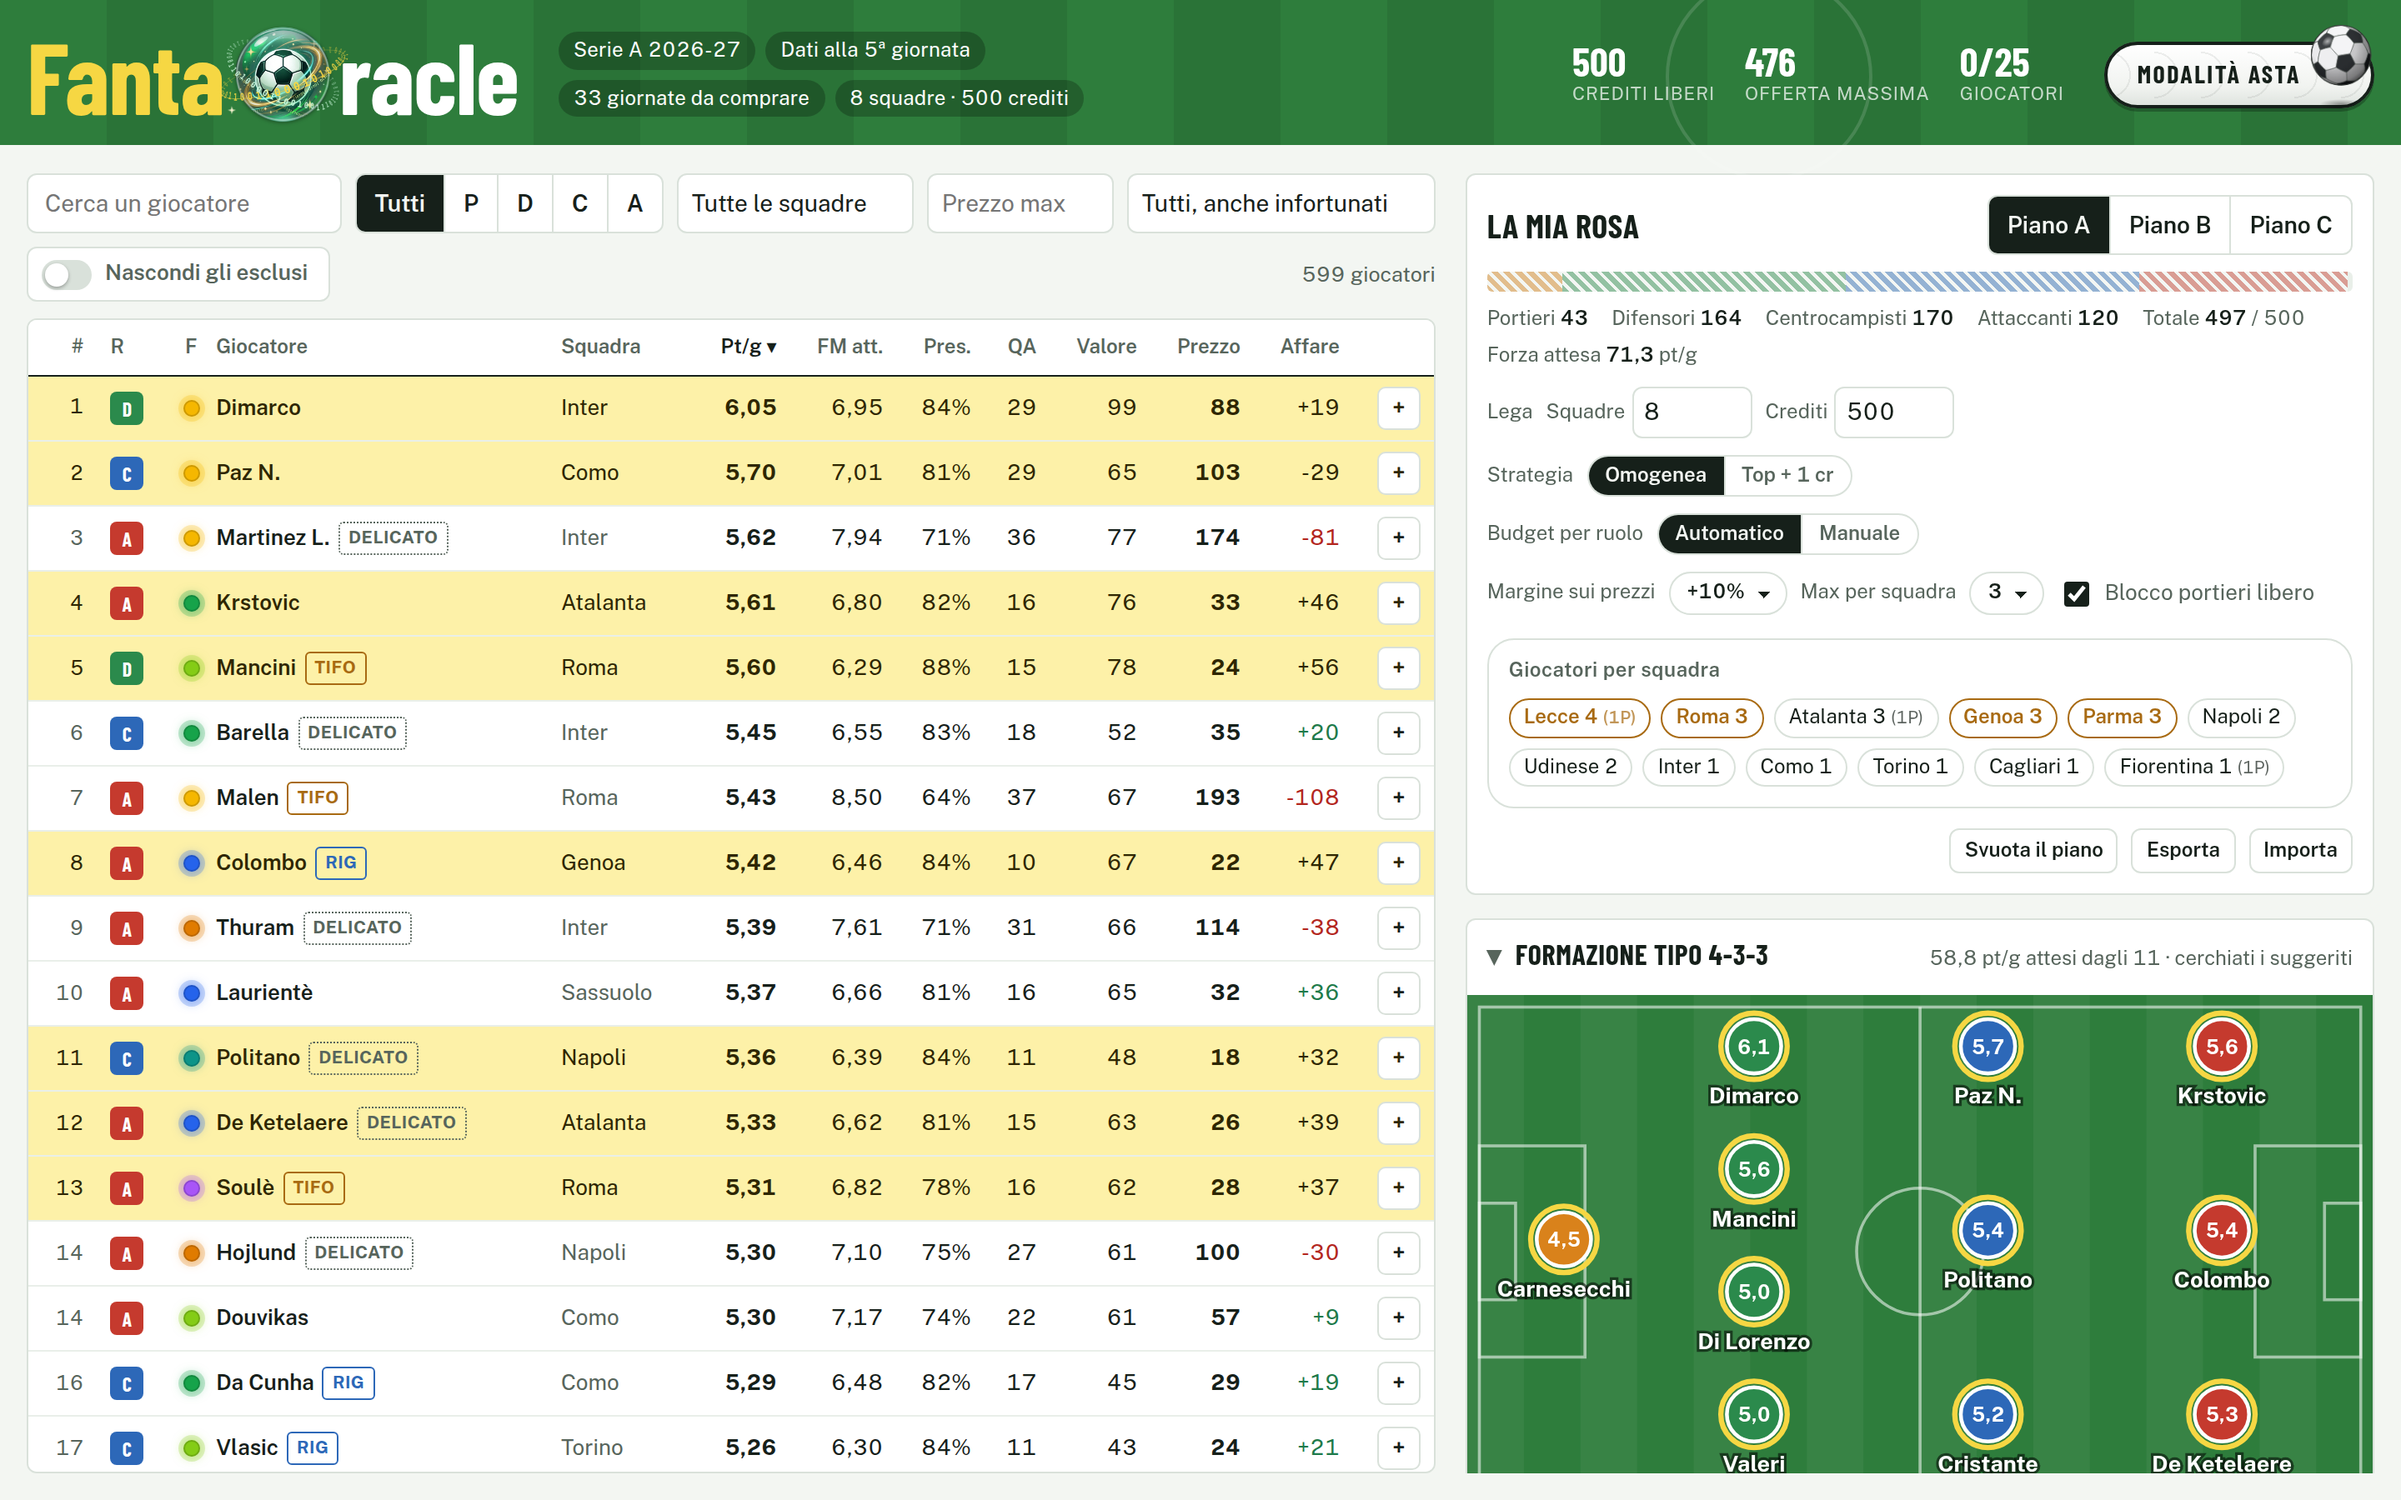
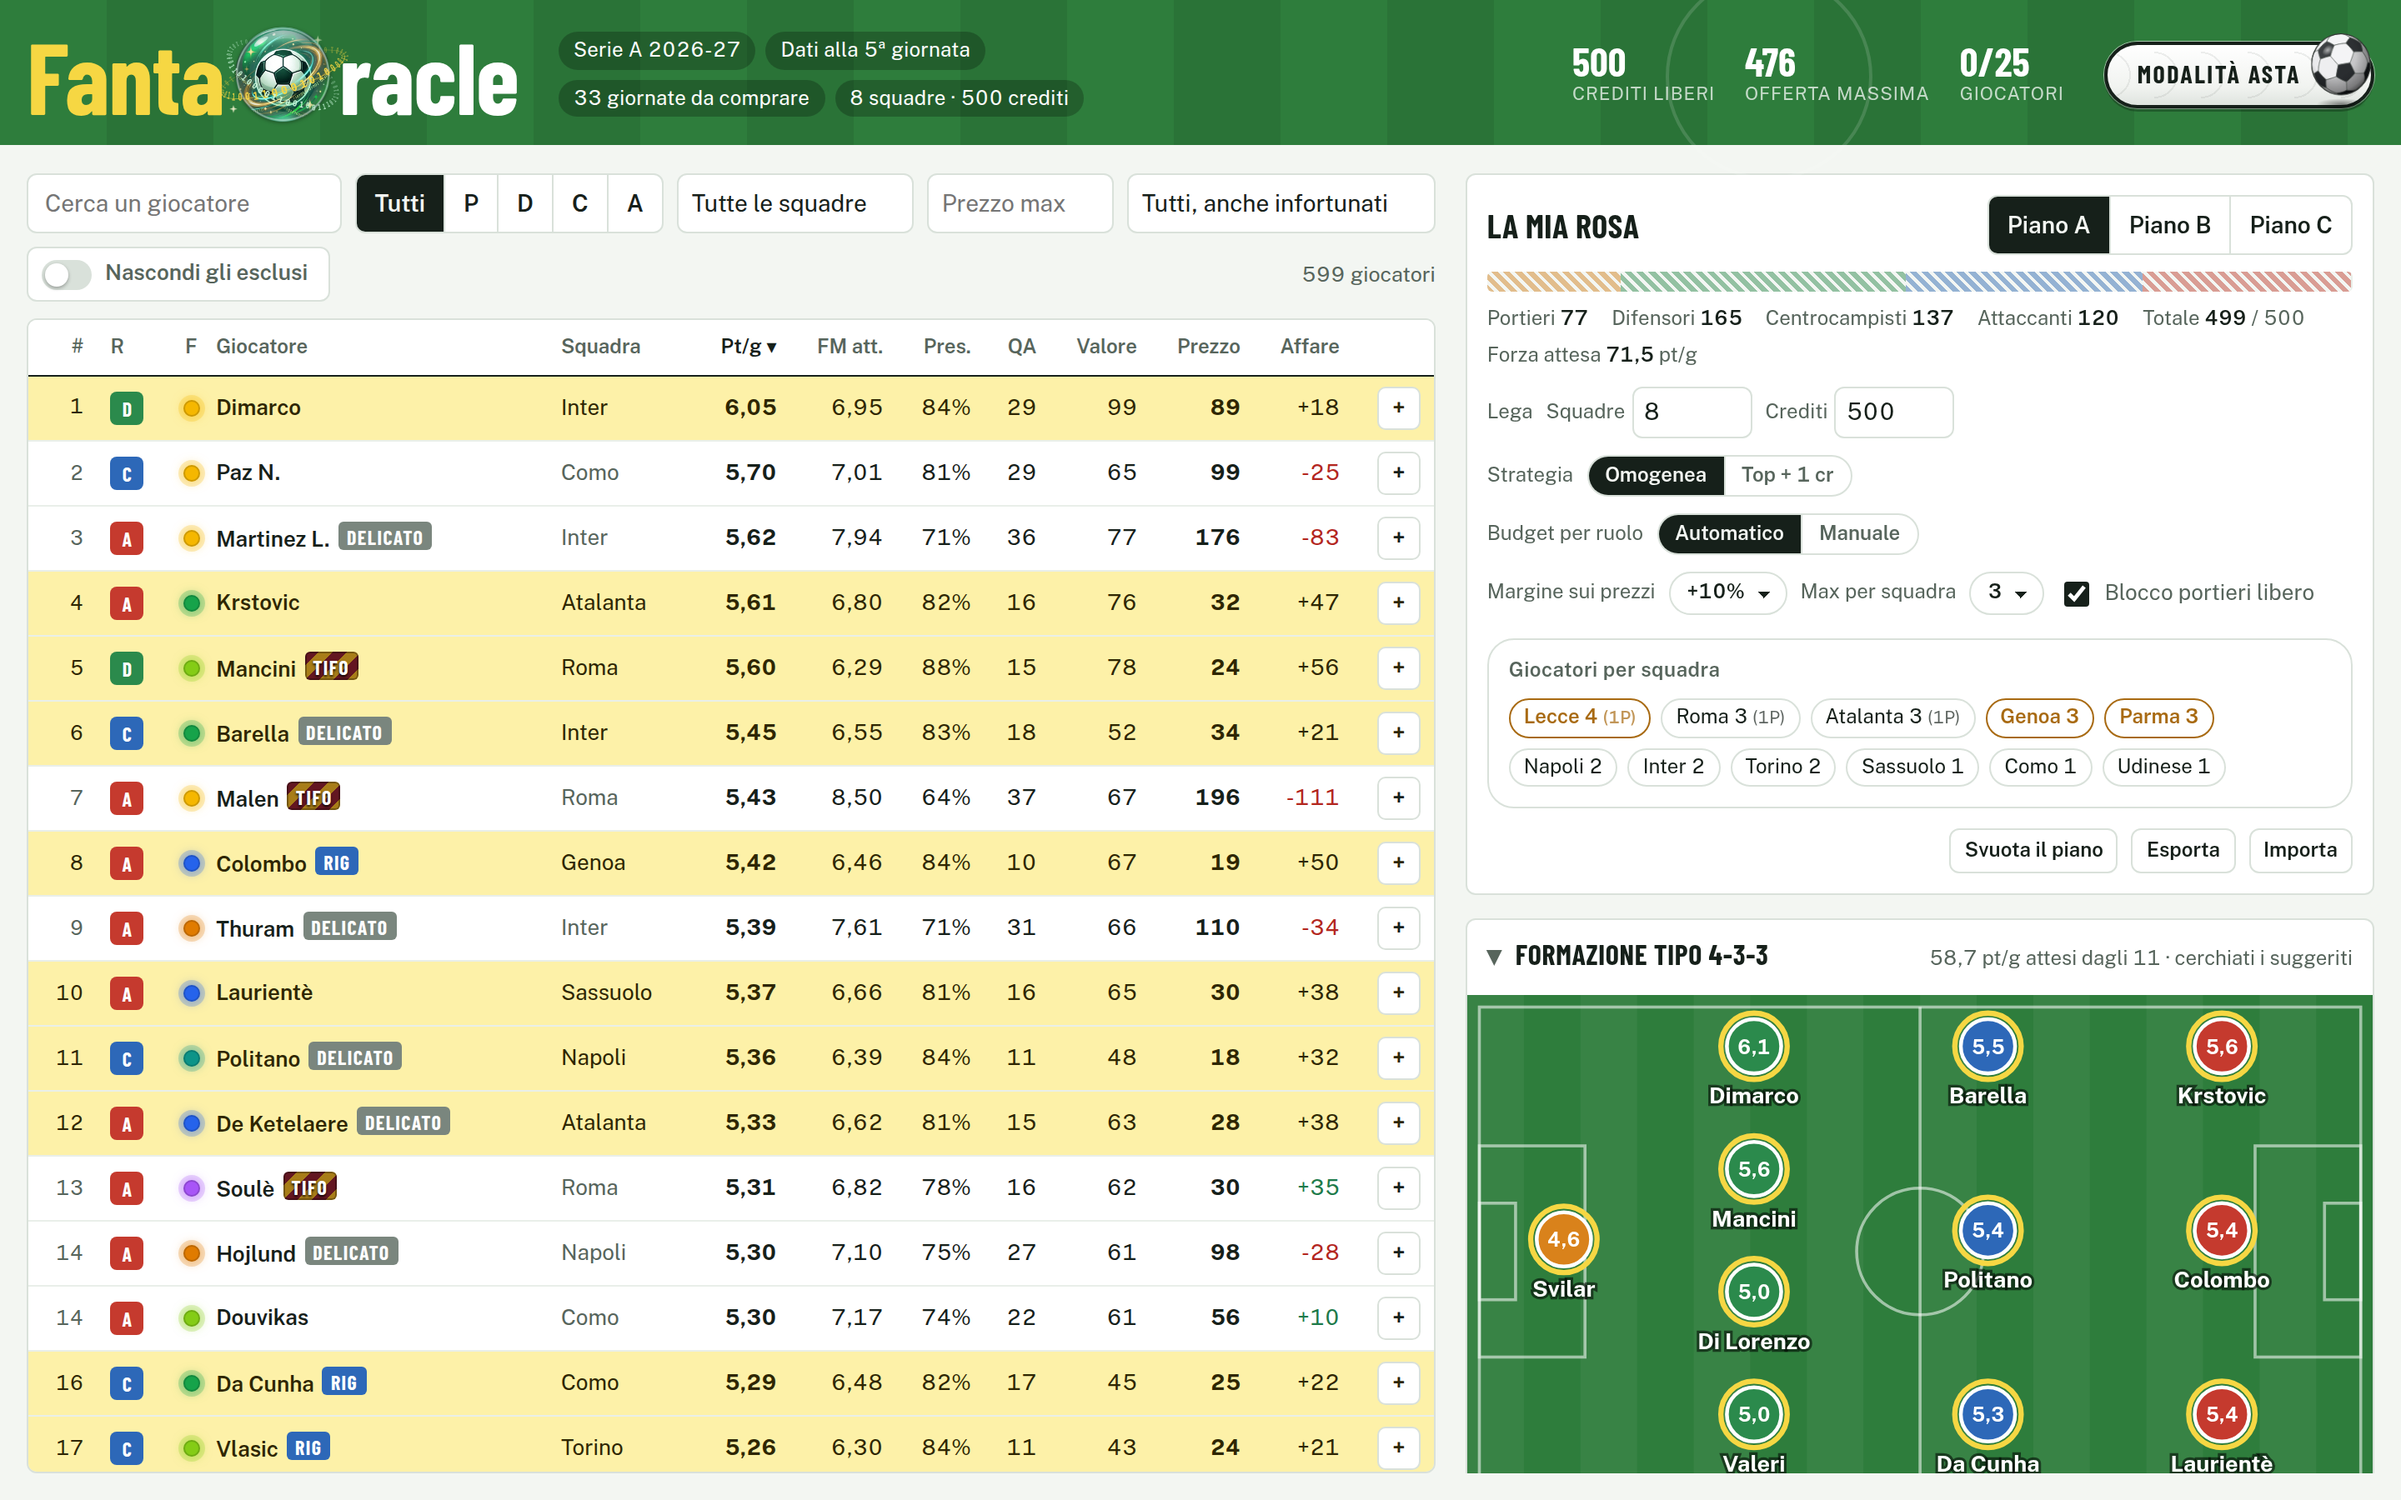
Etichette come bollini da tabellone, TIFO coi colori della squadra
Le etichette accanto al nome diventano bollini pieni nel font dei titoli: OUT e
SQ con la chiave scura e accanto il rientro (OUT | 8a, OUT | STAGIONE, SQ | 2 G),
dubbio e diffida in giallo, FRAGILE bordato di rosso, DELICATO in grigio, RIG in
blu. TIFO ha le strisce coi colori sociali della squadra, con un velo scuro che
tiene leggibile la scritta anche sulle strisce bianche; la tabella copre tutte
e venti le squadre, cosi' vale per qualsiasi squadra messa nel tifo.

README, specifiche e screenshot aggiornati.

Claude-Session: https://claude.ai/code/session_01FBeLdg3Zut88sEP1f7QNub

diff --git a/web/tool.css b/web/tool.css
@@ -230,13 +230,21 @@ td.big { font-weight: 700; }
 .pos { color: var(--go); } .neg { color: var(--bad); }
 .role { display: inline-grid; place-items: center; width: 20px; height: 20px; border-radius: 4px; color: #fff; font: 700 12px/1 var(--font-display); }
 .role.P { background: var(--r-p); } .role.D { background: var(--r-d); } .role.C { background: var(--r-c); } .role.A { background: var(--r-a); }
-.tag { display: inline-block; font-size: 10.5px; font-weight: 700; padding: 1px 5px; border-radius: 3px; margin-left: 5px; vertical-align: 1px; border: 1px solid currentColor; letter-spacing: 0.02em; }
-.tag.rig { color: var(--r-c); } .tag.tifo { color: var(--warn); } .tag.uno { color: inherit; opacity: 0.8; }
-/* Infortuni: rosso pieno chi e' fuori, contorno per i dubbi, arancio per la propensione. */
-.tag.out { color: #fff; background: var(--bad); border-color: var(--bad); cursor: help; }
-.tag.dubbio { color: var(--warn); border-style: dashed; cursor: help; }
+/* Etichette come bollini da tabellone: font condensato, pieni. Chi e' fuori ha la chiave scura
+   (OUT, SQ) e accanto il rientro; il tifo porta le strisce coi colori della squadra (--t1, --t2). */
+.tag { display: inline-flex; align-items: center; font: 700 12px/1 var(--font-display); letter-spacing: 0.06em; text-transform: uppercase;
+  padding: 3px 5px 2px; border-radius: 3px; margin-left: 5px; vertical-align: 1px; white-space: nowrap; overflow: hidden;
+  color: var(--ink-2); box-shadow: inset 0 0 0 1.5px currentColor; }
+.tag i { font-style: normal; margin: -3px 4px -2px -5px; padding: 3px 5px 2px; background: rgb(0 0 0 / 0.24); }
+.tag.rig { color: #fff; background: #2d68b8; box-shadow: none; }
+/* un velo scuro sulle strisce: le bianche (Lazio, Juve, Napoli...) restano chiare ma la scritta si legge */
+.tag.tifo { color: #fff; background: linear-gradient(rgb(0 0 0 / 0.3), rgb(0 0 0 / 0.3)), repeating-linear-gradient(135deg, var(--t1) 0 6px, var(--t2) 6px 12px);
+  box-shadow: inset 0 0 0 1px rgb(0 0 0 / 0.3); text-shadow: 0 1px 1.5px rgb(0 0 0 / 0.9); }
+.tag.uno { color: inherit; opacity: 0.8; }
+.tag.out { color: #fff; background: #c5302a; box-shadow: none; cursor: help; }
+.tag.dubbio, .tag.diff { color: #3a2a00; background: #f7c948; box-shadow: none; cursor: help; }
 .tag.fragile { color: var(--bad); cursor: help; }
-.tag.rischio { color: var(--ink-2); border-style: dotted; cursor: help; }
+.tag.rischio { color: #fff; background: #7a867e; box-shadow: none; cursor: help; }
 td.act { display: flex; gap: 4px; justify-content: flex-end; }
 .ic { width: 26px; height: 26px; display: inline-grid; place-items: center; border: 1px solid var(--rule); background: var(--sheet); border-radius: 5px; font-weight: 700; line-height: 1; }
 .ic:hover { border-color: var(--ink); }
@@ -356,7 +364,7 @@ table.compagni button[aria-pressed="true"] { background: var(--ink); color: var(
 .sch-chi { min-width: 0; }
 :is(.scheda, .chiamato) h3 { font-size: 30px; display: flex; flex-wrap: wrap; align-items: center; gap: 4px 8px; }
 :is(.scheda, .chiamato) h3 .role { width: 26px; height: 26px; font-size: 15px; border-radius: 6px; }
-:is(.scheda, .chiamato) h3 .tag { margin-left: 0; font-family: var(--font-body); }
+:is(.scheda, .chiamato) h3 .tag { margin-left: 0; }
 :is(.scheda, .chiamato) h3 .fd { margin: 0 3px 0 2px; vertical-align: 0; }
 .sch-meta { display: flex; flex-wrap: wrap; align-items: center; gap: 6px; margin-top: 8px; }
 .sch-meta .mt { font-size: 12px; line-height: 1.45; padding: 2px 10px; border-radius: 999px; background: var(--tint); color: var(--ink-2); white-space: nowrap; }
@@ -627,7 +635,7 @@ button.box, .comp { font: inherit; cursor: pointer; }
 .giro-ctl { margin-left: auto; display: inline-flex; align-items: center; gap: 4px; }
 .giro-ctl .ic { font-size: 16px; }
 .giro.mio .ic, .giro.mio .btn { color: var(--ink); }
-.tag.turno { color: var(--live-fg); background: var(--live); border-color: var(--live-edge); }
+.tag.turno { color: var(--live-fg); background: var(--live); box-shadow: inset 0 0 0 1px var(--live-edge); }
 .risultati button.fuori { opacity: 0.55; }
 /* occasioni: il conto del ruolo in cinque riquadri stretti, le fasce ancora libere, poi la lista */
 .boxes.fase-box { grid-template-columns: repeat(5, minmax(0, 1fr)); gap: 6px; }
@@ -778,7 +786,7 @@ table.sq td.lib { font-size: 12px; color: var(--ink-2); letter-spacing: 0.02em; 
 .lr.zero { opacity: 0.35; }
 .log div { display: flex; gap: 8px; justify-content: space-between; font-size: 13px; padding: 4px 0; border-top: 1px dashed var(--rule); }
 .log div:first-child { border-top: 0; }
-.tag.own { color: var(--ink-2); } .tag.obj { color: var(--live-fg); background: var(--live); border-color: var(--live-edge); }
+.tag.own { color: var(--ink-2); } .tag.obj { color: var(--live-fg); background: var(--live); box-shadow: inset 0 0 0 1px var(--live-edge); }
 .nomi { display: grid; grid-template-columns: repeat(2, minmax(0, 1fr)); gap: 8px; margin: 12px 0; }
 .nomi label { display: grid; gap: 3px; font-size: 12px; color: var(--ink-2); }
 .nomi input { padding: 7px 9px; border: 1px solid var(--rule); border-radius: var(--radius); background: var(--paper); font-size: 14px; color: var(--ink); }

diff --git a/web/tool.js b/web/tool.js
@@ -627,9 +627,11 @@ function tagSalute(g, senzaDubbio = false) {
   if (g.inf && !(senzaDubbio && !fuori(g) && g.inf.t !== "diffidato")) {
     const i = g.inf;
     const out = fuori(g);
-    const testo = i.t === "diffidato" ? "DIFFIDATO" : !out ? "IN DUBBIO"
-      : i.t === "squalificato" ? "SQUALIFICATO" : i.fs ? "OUT STAGIONE" : i.g ? `OUT → ${i.g}a` : "OUT";
-    const cls = out ? "out" : "dubbio";
+    // Bollini da tabellone: chi e' fuori ha la chiave (OUT, SQ) e accanto quando rientra
+    const testo = i.t === "diffidato" ? "DIFF." : !out ? "? DUBBIO"
+      : i.t === "squalificato" ? `<i>SQ</i>${i.fs ? "STAGIONE" : i.s ? `${i.s} G` : ""}`
+      : `<i>OUT</i>${i.fs ? "STAGIONE" : i.g ? `${i.g}ª` : ""}`;
+    const cls = out ? "out" : i.t === "diffidato" ? "diff" : "dubbio";
     t += `<span class="tag ${cls}" title="${esc(titoloInf(g))}">${testo}</span>`;
   }
   if (fragile(g)) t += `<span class="tag fragile" title="${esc(titoloFr(g))}">FRAGILE</span>`;
@@ -646,10 +648,24 @@ function filtroSalute(g, f) {
   return true;
 }
 
+// I colori sociali, per le strisce dell'etichetta TIFO: vale per qualsiasi squadra messa nel
+// tifo in config/league.yaml, non solo Roma e Lazio.
+const COLORI_SQ = {
+  atalanta: ["#1e71b8", "#111111"], bologna: ["#a21c26", "#1a2f48"], cagliari: ["#a01d32", "#1b2a4a"],
+  como: ["#1d3c8f", "#ffffff"], fiorentina: ["#5b2a86", "#ffffff"], frosinone: ["#0047bb", "#ffd200"],
+  genoa: ["#a81e2d", "#002147"], inter: ["#0068a8", "#111111"], juventus: ["#111111", "#ffffff"],
+  lazio: ["#5fbfe9", "#ffffff"], lecce: ["#d71920", "#ffd400"], milan: ["#d50a0a", "#111111"],
+  monza: ["#e30613", "#ffffff"], napoli: ["#129bd4", "#ffffff"], parma: ["#1b4ea2", "#ffd200"],
+  roma: ["#8e1f2f", "#f0b323"], sassuolo: ["#00a752", "#111111"], torino: ["#7f1d0b", "#ffffff"],
+  udinese: ["#111111", "#ffffff"], venezia: ["#f47920", "#00843d"],
+};
 function tag(g, senzaDubbio = false) {
   let t = "";
   if ((g.qrig || 0) >= 0.4) t += '<span class="tag rig" title="Rigorista: calcia la maggior parte dei rigori della squadra">RIG</span>';
-  if ((g.tifo || 1) > 1) t += '<span class="tag tifo" title="Prezzo atteso maggiorato: squadra con molti tifosi in lega">TIFO</span>';
+  if ((g.tifo || 1) > 1) {
+    const [c1, c2] = COLORI_SQ[g.sq] || ["#8a6a12", "#f2c200"];
+    t += `<span class="tag tifo" style="--t1:${c1};--t2:${c2}" title="Prezzo atteso maggiorato: ${esc(nomeSq(g.sq))} ha molti tifosi in lega">TIFO</span>`;
+  }
   return t + tagSalute(g, senzaDubbio);
 }
 

diff --git a/web/index.html b/web/index.html
@@ -10,7 +10,7 @@
 <link rel="preconnect" href="https://fonts.gstatic.com" crossorigin>
 <link rel="stylesheet" href="https://fonts.googleapis.com/css2?family=Barlow+Condensed:wght@500;600;700&family=Public+Sans:wght@400;500;600;700&display=swap">
 <link rel="icon" type="image/png" href="logo.png">
-<link rel="stylesheet" href="tool.css?v=8d21108128">
+<link rel="stylesheet" href="tool.css?v=91bb18766e">
 <div class="app">
   <header class="top">
     <div class="marca">
@@ -115,7 +115,7 @@
 
 <div class="overlay" id="overlay" hidden></div>
 
-<script src="tool.js?v=a0c16ae5fa"></script>
+<script src="tool.js?v=4d7b1ce807"></script>
 
 </body>
 </html>

diff --git a/README.md b/README.md
@@ -35,9 +35,9 @@ I 599 giocatori delle 20 squadre di Serie A, ordinati per punti attesi. Filtri p
 | **Prezzo** | Quanto costerà presumibilmente nella nostra asta |
 | **Affare** | Valore meno prezzo: più è alto, più conviene |
 
-Le etichette **RIG** segnalano i rigoristi, **TIFO** i giocatori che in lega costeranno un po' di più perché qualcuno ci è affezionato.
+Accanto al nome trovi dei bollini, come quelli di un tabellone: **RIG** in blu per i rigoristi, **TIFO** a strisce con i colori della squadra per i giocatori che in lega costeranno un po' di più perché qualcuno ci è affezionato (giallorosso per la Roma, biancoceleste per la Lazio).
 
-🚑 Accanto al nome vedi anche chi è **infortunato**: **OUT → 8a** se salta le prossime giornate e rientra alla 8ª (con la data, passandoci sopra); chi è solo in dubbio per la prossima non ha etichetta, lo trovi nella sua scheda. E chi **si fa male spesso**: **FRAGILE** se negli ultimi tre anni ha perso almeno un quarto di stagione a forza di stop, **DELICATO** se ci va vicino. Un filtro ti lascia solo i disponibili, o solo i disponibili non fragili. Le giornate che un infortunato salta sono già tolte dai suoi punti attesi e dal suo valore; la fragilità invece è un avviso, la decisione è tua.
+🚑 Vedi anche chi è **fuori**, in rosso pieno: **OUT | 8ª** se salta le prossime giornate e rientra alla 8ª (con la data, passandoci sopra), **OUT | STAGIONE** se non torna più, **SQ | 2 G** se è squalificato per due giornate. Chi è solo in dubbio per la prossima non ha bollino nel listone: lo trovi nella sua scheda, in giallo. E chi **si fa male spesso**: **FRAGILE**, bordato di rosso, se negli ultimi tre anni ha perso almeno un quarto di stagione a forza di stop, **DELICATO**, in grigio, se ci va vicino. Un filtro ti lascia solo i disponibili, o solo i disponibili non fragili. Le giornate che un infortunato salta sono già tolte dai suoi punti attesi e dal suo valore; la fragilità invece è un avviso, la decisione è tua.
 
 ### 2. Apri la scheda di un giocatore
 

diff --git a/specifiche.md b/specifiche.md
@@ -67,12 +67,15 @@ chiusi e si aprono dal riquadro che li riassume (quello con la freccia).
    delle presenze.
 4. *Griglia abbinamenti*, solo per portieri e attaccanti (vedi sotto).
 
-**Infortuni.** Accanto al nome, in rosso pieno chi salta almeno una delle
-prossime giornate (`OUT → 8a`: rientro alla 8ª, `OUT STAGIONE` se torna dopo
-l'ultima, `SQUALIFICATO`), tratteggiato chi è in dubbio per la prossima o ha un
-acciacco senza data (`IN DUBBIO`, `DIFFIDATO`). Poi la propensione dallo
-storico: `FRAGILE` (circa uno su sette) e, più discreto, `DELICATO` (uno su
-quattro). È un giudizio nostro sullo storico, diverso dalla fascia "A rischio"
+**Infortuni.** Accanto al nome, bollini da tabellone nel font dei titoli. In
+rosso pieno chi salta almeno una delle prossime giornate, con la chiave scura e
+accanto il rientro (`OUT | 8ª`: rientro alla 8ª, `OUT | STAGIONE` se torna dopo
+l'ultima, `SQ | 2 G` per una squalifica di due giornate); in giallo chi è in
+dubbio per la prossima o ha un acciacco senza data (`? DUBBIO`, `DIFF.`). Poi la
+propensione dallo storico: `FRAGILE` bordato di rosso (circa uno su sette) e,
+più discreto, `DELICATO` in grigio (uno su quattro). `RIG` è blu, `TIFO` ha le
+strisce con i colori sociali della squadra (una tabella per tutte le venti, così
+vale per qualsiasi squadra messa nel tifo in `config/league.yaml`). È un giudizio nostro sullo storico, diverso dalla fascia "A rischio"
 della guida SOS Fanta. Passandoci sopra si leggono motivo, data di rientro e i numeri che
 hanno deciso il giudizio. Un filtro tiene solo i disponibili, i disponibili non
 fragili, gli indisponibili o i fragili e delicati. Nella scheda, la sezione Infortuni dice
